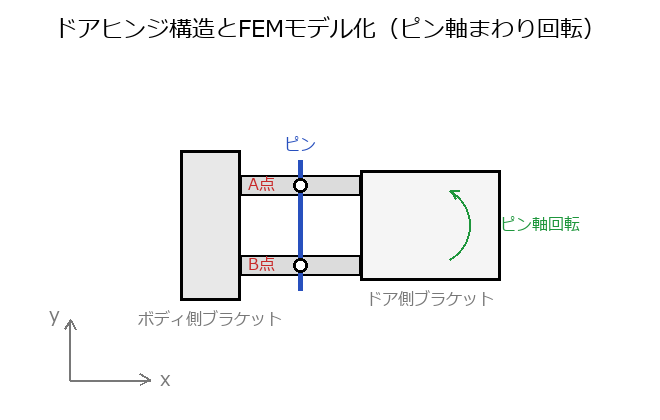
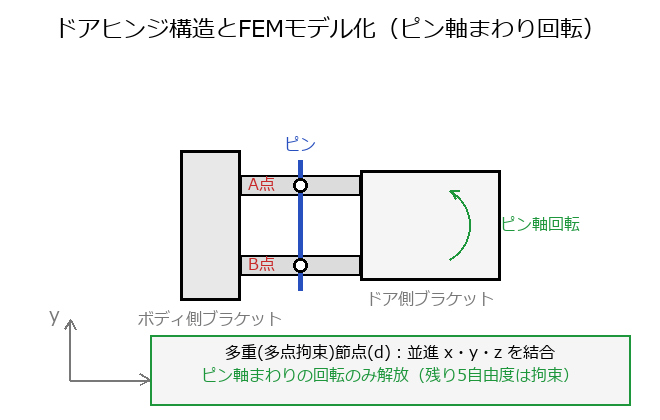
振動2級 図の追加・充実（回答前=中立/回答後=結論）
- 8-2: 回答前に配置図(正方形+対角線+節点a/b)を追加し大小は回答後へ(v2e8TriSplitNodesPre)
- 7-18: 回答前は構造・ピン位置のみ(v2e7DoorHingePre)、回答後に多点拘束のDOF結合(並進x/y/z結合・ピン軸回転のみ解放)を明示
- 9-17: コンプライアンス曲線に残留項の近似(低次≈−1/(Y_ik ω²)・高次≈1/Z_ik)を明示
- 9-1/9-4/9-16: 回答前は空欄の中立図、回答後に具体値(連立→行列/2×2のLU消去/1階化ブロック[A][B]の代入)を示す図を追加
- 9-11は既に具体ブロックを示しており変更不要
- ch9図の生成元が消失していたため figs_vib2ch9_e.py を新規作成

Changed region(s): [[0.2424, 0.7738, 0.9394, 0.9286], [0.2424, 0.9595, 0.9394, 0.9905], [0.2424, 0.8976, 0.2727, 0.9286]]

diff --git a/tools/figs_vib2ch9_e.py b/tools/figs_vib2ch9_e.py
@@ -1,0 +1,143 @@
+# -*- coding: utf-8 -*-
+"""振動2級 第9章 数値解析法 の図の充実（恒久ツール）。元の生成スクリプトが失われていたため復元＋充実。
+ v2e9ComplianceCurve       … 9-17 回答後。低次側 残留質量 −1/(Y_ik ω²)・高次側 残留剛性 1/Z_ik の近似項を明示。
+ v2e9MatrixFormAns         … 9-1  回答後。具体係数の連立1次方程式→行列形式(行=式/列=変数)。回答前は空欄版 v2e9MatrixForm。
+ v2e9LUDecompAns           … 9-4  回答後。2×2の具体的なLU消去(ピボット・乗数)。回答前は v2e9LUDecomp。
+ v2e9FirstOrderFormAns     … 9-16 回答後。1階化 z˙=[A]z+[B]f のブロックを具体化([A]=[[0,I],[-M⁻¹K,-M⁻¹C]] 等)。回答前は v2e9FirstOrderForm。
+実行: python tools/figs_vib2ch9_e.py
+"""
+import math
+from figlib import new, save, title, ctext, plot, W, H, FL, F, FS, FT, BLACK, GRAY, LGRAY, RED, BLUE, GREEN, FILL1, FILL2, FILL3
+
+
+def bracket(d, x0, y0, x1, y1, col=BLACK, wd=3, ear=10):
+    d.line([(x0 + ear, y0), (x0, y0), (x0, y1), (x0 + ear, y1)], fill=col, width=wd)
+    d.line([(x1 - ear, y0), (x1, y0), (x1, y1), (x1 - ear, y1)], fill=col, width=wd)
+
+
+def compliance_curve(name):
+    im, d = new()
+    title(d, "コンプライアンス-周波数曲線と残留項の近似")
+    ox, oy = 90, 322
+    w, h = 500, 250
+    # 軸
+    d.line([(ox, oy), (ox, oy - h)], fill=BLACK, width=2)
+    d.line([(ox, oy), (ox + w, oy)], fill=BLACK, width=2)
+    ctext(d, ox - 10, oy - h + 6, "コンプライアンス", FT, BLACK, "rm")
+    ctext(d, ox + w + 4, oy, "周波数", FT, BLACK, "lm")
+    # 対象帯域の網掛け
+    xa, xb = ox + 205, ox + 350
+    d.rectangle([xa, oy - h + 20, xb, oy], fill=(235, 240, 250), outline=None)
+    ctext(d, (xa + xb) / 2, oy - h + 34, "対象帯域", FT, BLUE)
+    ctext(d, xa, oy + 16, "ωa", FT, BLUE); ctext(d, xb, oy + 16, "ωb", FT, BLUE)
+    # 3つの共振ピーク
+    peaks = [(ox + 130, 78, 24), (ox + 278, 120, 34), (ox + 430, 62, 24)]
+    pts = []
+    for i in range(0, w - 10, 3):
+        x = ox + 15 + i
+        y = oy - 26
+        for xp, hh, ww in peaks:
+            y -= hh / (1 + ((x - xp) / ww) ** 2)
+        pts.append((x, y))
+    plot(d, 0, 0, pts, BLUE, 3)
+    ctext(d, ox + 110, oy + 34, "低次モード領域", FT, GRAY)
+    ctext(d, ox + 430, oy + 34, "高次モード領域", FT, GRAY)
+    # 残留項の近似（充実点）
+    d.line([(ox + 60, oy - 210), (ox + 120, oy - 150)], fill=GREEN, width=1)
+    ctext(d, ox + 60, oy - 224, "低次側の残留（残留質量）", FT, GREEN)
+    ctext(d, ox + 60, oy - 206, "≈ −1/(Y_ik ω²)", FS, GREEN)
+    ctext(d, ox + 430, oy - 224, "高次側の残留（残留剛性）", FT, RED)
+    ctext(d, ox + 430, oy - 206, "≈ 1/Z_ik", FS, RED)
+    save(im, name)
+
+
+def matrix_form_ans(name):
+    im, d = new()
+    title(d, "連立1次方程式 → 行列形式（具体例）")
+    eqs = ["2x₁ + 1x₂ + 0x₃ = 5",
+           "1x₁ + 3x₂ + 1x₃ = 10",
+           "0x₁ + 1x₂ + 2x₃ = 8"]
+    for i, e in enumerate(eqs):
+        ctext(d, 40, 120 + i * 46, "式" + "₁₂₃"[i], FT, GRAY, "lm")
+        ctext(d, 90, 120 + i * 46, e, FS, BLACK, "lm")
+    A = [[2, 1, 0], [1, 3, 1], [0, 1, 2]]
+    b = [5, 10, 8]
+    ox, oy, c = 350, 96, 50
+    bracket(d, ox - 8, oy, ox + 3 * c + 8, oy + 3 * c)
+    for r in range(3):
+        for cc in range(3):
+            ctext(d, ox + cc * c + c / 2, oy + r * c + c / 2, str(A[r][cc]), FS, BLACK)
+    ctext(d, ox + 1.5 * c, oy + 3 * c + 22, "[A] 行=式 / 列=変数", FT, GRAY)
+    # {x}
+    xo = ox + 3 * c + 26
+    bracket(d, xo, oy, xo + 46, oy + 3 * c)
+    for r in range(3):
+        ctext(d, xo + 23, oy + r * c + c / 2, "x" + "₁₂₃"[r], FS, BLUE)
+    ctext(d, xo + 60, oy + 1.5 * c, "=", F, BLACK)
+    # {b}
+    bo = xo + 84
+    bracket(d, bo, oy, bo + 46, oy + 3 * c)
+    for r in range(3):
+        ctext(d, bo + 23, oy + r * c + c / 2, str(b[r]), FS, RED)
+    ctext(d, W / 2, H - 22, "係数・右辺・解の対応が確定（回答後）", FT, GRAY)
+    save(im, name)
+
+
+def lu_decomp_ans(name):
+    im, d = new()
+    title(d, "LU分解の消去（具体例）  A = L U")
+    ctext(d, W / 2, 78, "A = [[2, 1], [4, 3]]", FS, BLACK)
+    # 消去ステップ
+    ctext(d, W / 2, 126, "消去: 乗数 m₂₁ = 4 / 2 = 2 → 行2 − 2×行1", FT, GREEN)
+    # L, U
+    oy, c = 170, 56
+    ox = 120
+    ctext(d, ox - 20, oy + c, "L =", FS, BLACK, "rm")
+    bracket(d, ox, oy, ox + 2 * c, oy + 2 * c)
+    Lm = [["1", "0"], ["2", "1"]]
+    for r in range(2):
+        for cc in range(2):
+            ctext(d, ox + cc * c + c / 2, oy + r * c + c / 2, Lm[r][cc], FS, BLUE)
+    ctext(d, ox + c, oy + 2 * c + 20, "下三角(対角=1・乗数)", FT, GRAY)
+    ox2 = 400
+    ctext(d, ox2 - 20, oy + c, "U =", FS, BLACK, "rm")
+    bracket(d, ox2, oy, ox2 + 2 * c, oy + 2 * c)
+    Um = [["2", "1"], ["0", "1"]]
+    for r in range(2):
+        for cc in range(2):
+            ctext(d, ox2 + cc * c + c / 2, oy + r * c + c / 2, Um[r][cc], FS, RED)
+    ctext(d, ox2 + c, oy + 2 * c + 20, "上三角(消去後のピボット)", FT, GRAY)
+    ctext(d, W / 2, H - 22, "ピボット2で行2を消去 → L の乗数と U が確定", FT, GRAY)
+    save(im, name)
+
+
+def first_order_form_ans(name):
+    im, d = new()
+    title(d, "2階形の1階化  z˙ = [A] z + [B] f（ブロック確定）")
+    ctext(d, W / 2, 84, "M x¨ + C x˙ + K x = f ,  z = {x ; x˙}", FS, BLACK)
+    oy, cw, ch = 150, 130, 46
+    ox = 150
+    ctext(d, ox - 24, oy + ch, "[A] =", FS, BLACK, "rm")
+    bracket(d, ox, oy, ox + 2 * cw, oy + 2 * ch)
+    Ablk = [["0", "I"], ["−M⁻¹K", "−M⁻¹C"]]
+    for r in range(2):
+        for cc in range(2):
+            ctext(d, ox + cc * cw + cw / 2, oy + r * ch + ch / 2, Ablk[r][cc], FS, BLUE)
+    # [B]
+    ox2 = ox + 2 * cw + 70
+    ctext(d, ox2 - 24, oy + ch, "[B] =", FS, BLACK, "rm")
+    bracket(d, ox2, oy, ox2 + cw, oy + 2 * ch)
+    Bblk = ["0", "M⁻¹"]
+    for r in range(2):
+        ctext(d, ox2 + cw / 2, oy + r * ch + ch / 2, Bblk[r], FS, RED)
+    ctext(d, W / 2, oy + 2 * ch + 46, "次数 n の2階系 → 次数 2n の1階系（z˙ = A z + B f）", FT, GRAY)
+    ctext(d, W / 2, H - 22, "各ブロックに 0・I・−M⁻¹K・−M⁻¹C・M⁻¹ を代入して確定", FT, GRAY)
+    save(im, name)
+
+
+if __name__ == "__main__":
+    compliance_curve("v2e9ComplianceCurve")
+    matrix_form_ans("v2e9MatrixFormAns")
+    lu_decomp_ans("v2e9LUDecompAns")
+    first_order_form_ans("v2e9FirstOrderFormAns")
+    print("done")

diff --git a/tools/figs_vib2ch7_e.py b/tools/figs_vib2ch7_e.py
@@ -572,6 +572,30 @@ def door_hinge(name):  # required
     # ピン軸まわり回転
     curve_arrow(d, 430, 225, 40, 300, 60, GREEN, 2, 10)
     ctext(d, 500, 225, "ピン軸回転", FT, GREEN, "lm")
+    # 回答後：多点拘束節点(d)の自由度の扱いを明示
+    d.rectangle((150, 335, 630, 405), outline=GREEN, width=2, fill=FILL1)
+    ctext(d, 390, 353, "多重(多点拘束)節点(d)：並進 x・y・z を結合", FT, BLACK)
+    ctext(d, 390, 376, "ピン軸まわりの回転のみ解放（残り5自由度は拘束）", FT, GREEN)
+    save(im, name)
+
+
+def door_hinge_pre(name):  # 7-18 回答前（構造とピン位置の設定のみ・自由度の答えは伏せる）
+    im, d = new()
+    title(d, "ドアヒンジ構造（ドア側／ボディ側ブラケット・ピン）")
+    axes(d, 70, 380, 80, 60, "x", "y", GRAY)
+    d.polygon([(180, 150), (240, 150), (240, 300), (180, 300)],
+              outline=BLACK, width=3, fill=FILL2)
+    ctext(d, 210, 320, "ボディ側ブラケット", FT, GRAY)
+    d.polygon([(360, 170), (500, 170), (500, 280), (360, 280)],
+              outline=BLACK, width=3, fill=FILL1)
+    ctext(d, 430, 300, "ドア側ブラケット", FT, GRAY)
+    d.rectangle((240, 175, 360, 195), outline=BLACK, width=2, fill=FILL3)
+    d.rectangle((240, 255, 360, 275), outline=BLACK, width=2, fill=FILL3)
+    d.line((300, 160, 300, 290), fill=BLUE, width=5)
+    ctext(d, 300, 145, "ピン", FT, BLUE)
+    node(d, 300, 185, 7, "white"); ctext(d, 275, 185, "A点", FT, RED, "rm")
+    node(d, 300, 265, 7, "white"); ctext(d, 275, 265, "B点", FT, RED, "rm")
+    ctext(d, 390, 360, "各部材と結合部の要素・自由度の割り当ては回答後", FT, GRAY)
     save(im, name)
 
 
@@ -619,5 +643,6 @@ if __name__ == "__main__":
     spot_weld_bolt("v2e7SpotWeldBolt")
     damping_material_mesh("v2e7DampingMaterialMesh")
     door_hinge("v2e7DoorHinge")
+    door_hinge_pre("v2e7DoorHingePre")
     step_mesh_uniform("v2e7StepMeshUniform")
     print("done 19")

diff --git a/tools/figs_vib2ch8_e.py b/tools/figs_vib2ch8_e.py
@@ -115,6 +115,24 @@ def tri_split_nodes(name):  # 8-2 helpful
     save(im, name)
 
 
+def tri_split_nodes_pre(name):  # 8-2 回答前（配置のみ・大小や数値は示さない）
+    im, d = new()
+    title(d, "正方形を対角線で2つの三角形1次要素に分割")
+    x0, y0, x1, y1 = 200, 130, 440, 370
+    d.rectangle((x0, y0, x1, y1), outline=BLACK, width=3, fill=FILL1)
+    d.line((x0, y0, x1, y1), fill=BLACK, width=3)
+    ctext(d, x0 + 70, y0 + 150, "要素I", FT, GRAY)
+    ctext(d, x0 + 165, y0 + 80, "要素II", FT, GRAY)
+    # 比較する節点の位置だけを a / b で示す（どちらが大きいかは示さない）
+    node(d, x1, y0, 8, "white"); ctext(d, x1 + 18, y0 - 6, "a", FS, BLACK, "lm")
+    node(d, x0, y1, 8, "white"); ctext(d, x0 - 18, y1 + 6, "a", FS, BLACK, "rm")
+    node(d, x0, y0, 8, FILL3); ctext(d, x0 - 18, y0 - 6, "b", FS, BLACK, "rm")
+    node(d, x1, y1, 8, FILL3); ctext(d, x1 + 18, y1 + 6, "b", FS, BLACK, "lm")
+    ctext(d, (x0 + x1) / 2, y1 + 34, "a=角の節点 / b=対角線上の節点（荷重の大小は回答後）", FT, GRAY)
+    dim(d, x0, y0 - 22, x1, y0 - 22, "一辺 1.5 m", col=GRAY)
+    save(im, name)
+
+
 def simple_support_beam(name):  # 8-3 required
     im, d = new()
     title(d, "はりの単純支持（各節点：横変位 w と傾き w'）")
@@ -654,6 +672,7 @@ def rail_wheel_unbalance(name):  # 8-21 required
 if __name__ == "__main__":
     quad_pressure_nodes("v2e8QuadPressureNodes")       # 8-1 required
     tri_split_nodes("v2e8TriSplitNodes")               # 8-2 helpful
+    tri_split_nodes_pre("v2e8TriSplitNodesPre")        # 8-2 回答前（配置のみ）
     simple_support_beam("v2e8SimpleSupportBeam")       # 8-3 required
     sym_plane_lpart("v2e8SymPlaneLpart")               # 8-4 required
     hex_mirror("v2e8HexMirror")                        # 8-5 required
